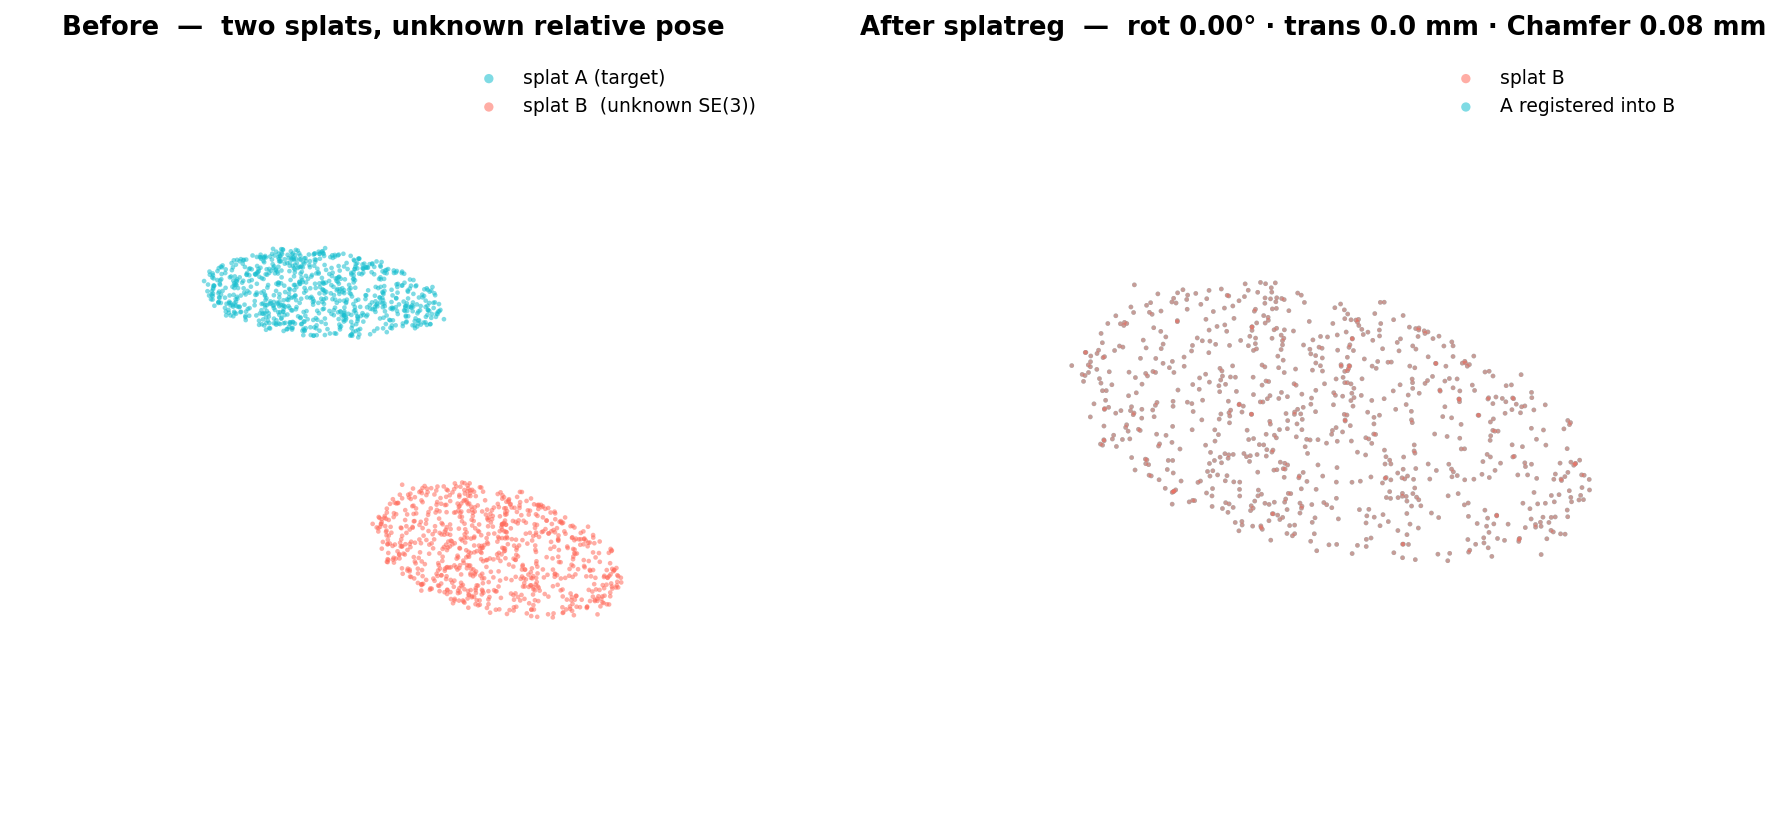
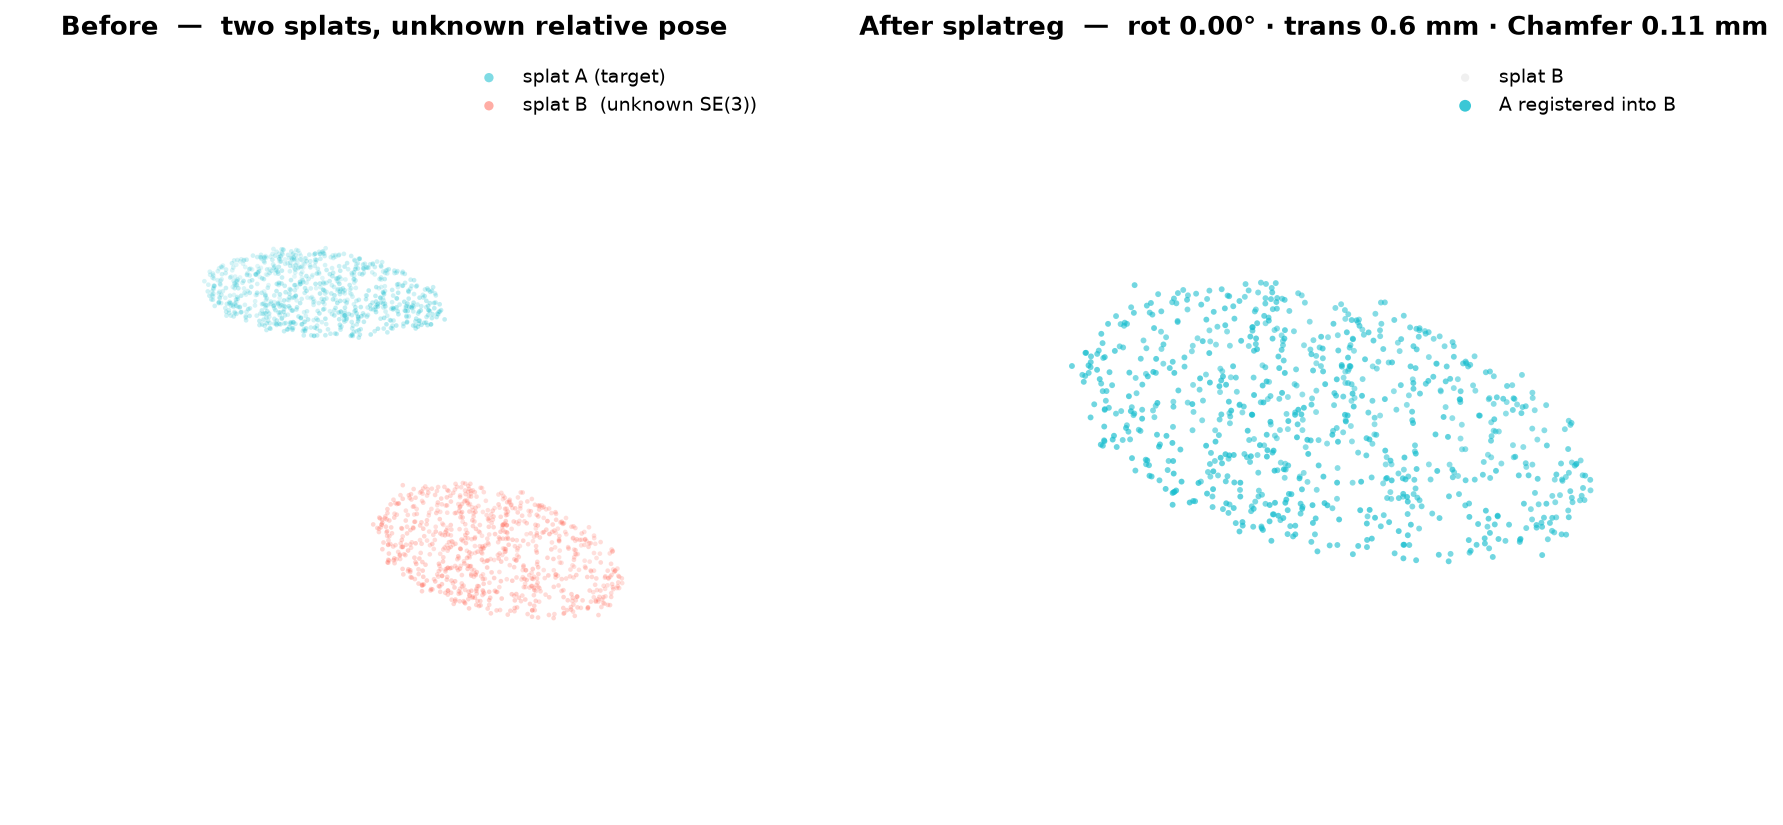
Redraw registration demo After panel so sub-mm overlap reads as lock-on

diff --git a/examples/make_readme_figure.py b/examples/make_readme_figure.py
@@ -57,9 +57,9 @@ TEAL, CORAL = "#17becf", "#ff6b5b"
 fig = plt.figure(figsize=(12.5, 5.6), facecolor="white")
 
 
-def panel(ax, p1, c1, l1, p2, c2, l2, title):
-    ax.scatter(p1[:, 0], p1[:, 1], p1[:, 2], s=5, c=c1, alpha=0.55, label=l1, edgecolors="none")
-    ax.scatter(p2[:, 0], p2[:, 1], p2[:, 2], s=5, c=c2, alpha=0.55, label=l2, edgecolors="none")
+def panel(ax, p1, c1, l1, p2, c2, l2, title, s1=5, a1=0.55, s2=5, a2=0.55):
+    ax.scatter(p1[:, 0], p1[:, 1], p1[:, 2], s=s1, c=c1, alpha=a1, label=l1, edgecolors="none")
+    ax.scatter(p2[:, 0], p2[:, 1], p2[:, 2], s=s2, c=c2, alpha=a2, label=l2, edgecolors="none")
     ax.set_title(title, fontsize=12.5, fontweight="bold", pad=8)
     ax.set_axis_off()
     ax.legend(loc="upper right", fontsize=9, framealpha=0.0, markerscale=2.0)
@@ -82,15 +82,22 @@ panel(
     "splat B  (unknown SE(3))",
     "Before  —  two splats, unknown relative pose",
 )
+# After: the clouds coincide to sub-mm, so equal-weight blending would render
+# mud.  B is drawn as a faint context cloud with the registered A crisp on
+# top; any visible halo is the true residual, not an overplot artifact.
 panel(
     fig.add_subplot(122, projection="3d"),
     Bm,
-    CORAL,
+    "#cfcfcf",
     "splat B",
     ABm,
     TEAL,
     "A registered into B",
     f"After splatreg  —  rot {rot_err:.2f}° · trans {trans_mm:.1f} mm · Chamfer {cham:.2f} mm",
+    s1=4,
+    a1=0.30,
+    s2=8,
+    a2=0.85,
 )
 plt.tight_layout()
 
